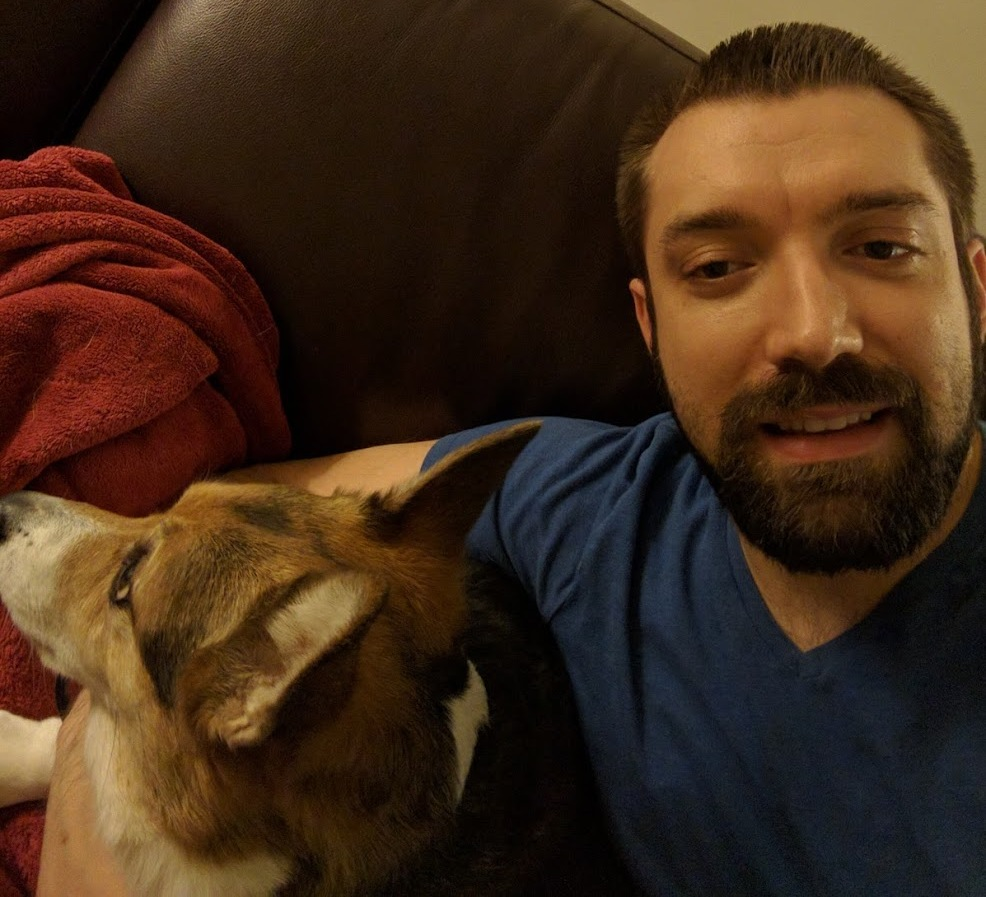
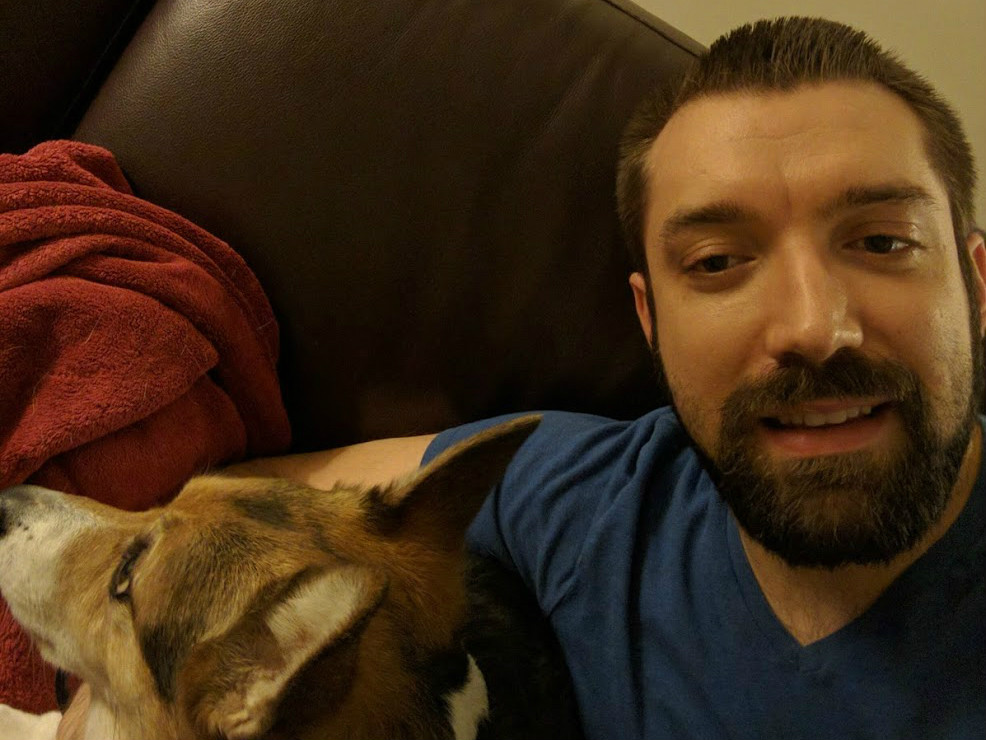
Profile image size  adjustments

diff --git a/index.html b/index.html
@@ -30,7 +30,7 @@
 			</header>
 		</section>
 		<article>
-			<img src="">
+			<img src="assets/images/profile_image.jpg" alt="It's me!" height="150" width="200">
 			<p>Contrary to popular belief, Lorem Ipsum is not simply random text. It has roots in a piece of classical Latin literature from 45 BC, making it over 2000 years old. Richard McClintock, a Latin professor at Hampden-Sydney College in Virginia, looked up one of the more obscure Latin words, consectetur, from a Lorem Ipsum passage, and going through the cites of the word in classical literature, discovered the undoubtable source. Lorem Ipsum comes from sections 1.10.32 and 1.10.33 of "de Finibus Bonorum et Malorum" (The Extremes of Good and Evil) by Cicero, written in 45 BC. This book is a treatise on the theory of ethics, very popular during the Renaissance. The first line of Lorem Ipsum, "Lorem ipsum dolor sit amet..", comes from a line in section 1.10.32.</p>
 		</article>
 	</div>
